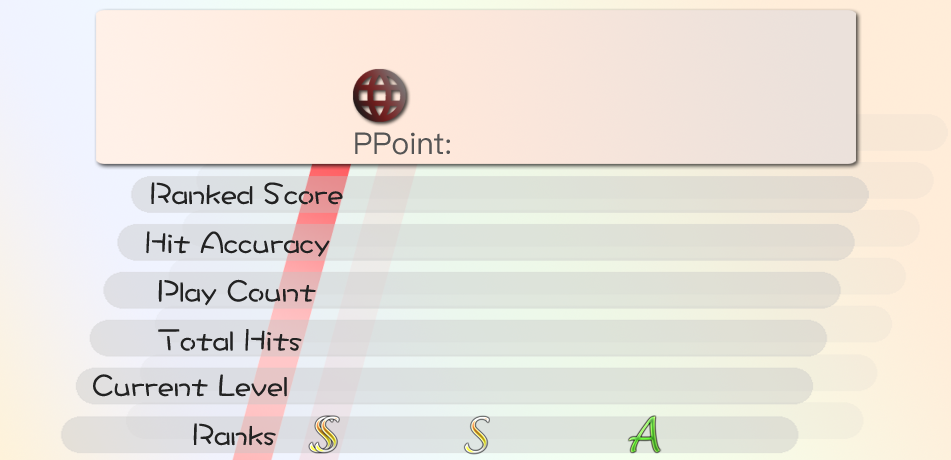
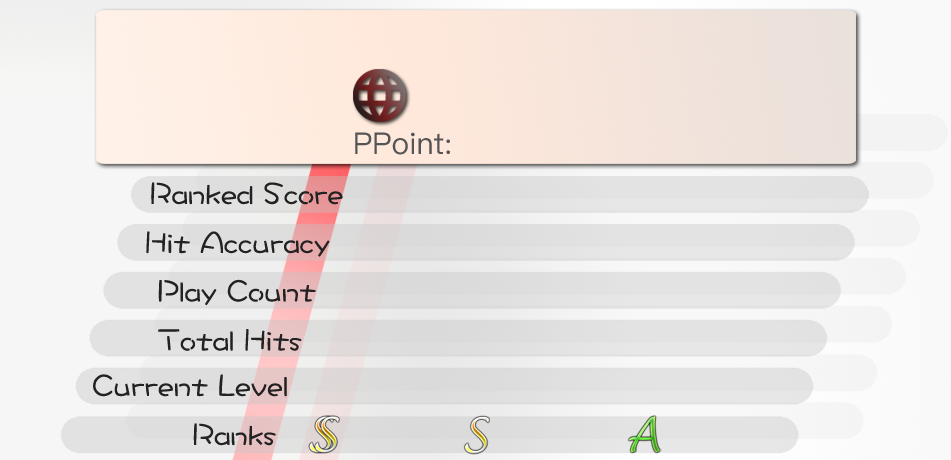
最后的微调，去掉了图片上多余的#，微调了Rank差异的位置

Changed region(s): [[0.5489, 0.0, 1.0, 1.0], [0.0, 0.913, 0.0305, 1.0]]

diff --git a/src/main/java/top/mothership/osubot/util/imgUtil.java b/src/main/java/top/mothership/osubot/util/imgUtil.java
@@ -176,12 +176,12 @@ public class imgUtil {
         draw(g2, "defaultColor", "numberFont", "rankSize", "#" + userFromAPI.getPp_rank(), "rankx", "ranky");
 
         //绘制PP
-        draw(g2, "ppColor", "numberFont", "ppSize", "#" + userFromAPI.getPp_raw().toString(), "ppx", "ppy");
+        draw(g2, "ppColor", "numberFont", "ppSize",  userFromAPI.getPp_raw().toString(), "ppx", "ppy");
 
 
         //绘制RankedScore
         draw(g2, "defaultColor", "numberFont", "numberSize",
-                "#" + new DecimalFormat("###,###").format(userFromAPI.getRanked_score()), "rScorex", "rScorey");
+                 new DecimalFormat("###,###").format(userFromAPI.getRanked_score()), "rScorex", "rScorey");
         //绘制acc
         draw(g2, "defaultColor", "numberFont", "numberSize",
                 new DecimalFormat("###.00").format(userFromAPI.getAccuracy()) + "%", "accx", "accy");
@@ -327,40 +327,40 @@ public class imgUtil {
             if (userInDB.getCount_rank_ss() > userFromAPI.getCount_rank_ss()) {
                 //如果查询的SS比凌晨的少
                 draw(g2, "downColor", "diffFont", "countDiffSize",
-                        "(↓" + Integer.toString(userInDB.getCount_rank_ss() - userFromAPI.getCount_rank_ss()) + ")", "ssCountDiffx", "ssCountDiffy");
+                        "↓" + Integer.toString(userInDB.getCount_rank_ss() - userFromAPI.getCount_rank_ss()) , "ssCountDiffx", "ssCountDiffy");
             } else if (userInDB.getCount_rank_ss() < userFromAPI.getCount_rank_ss()) {
                 //如果SS变多了
                 draw(g2, "upColor", "diffFont", "countDiffSize",
-                        "(↑" + Integer.toString(userFromAPI.getCount_rank_ss() - userInDB.getCount_rank_ss()) + ")", "ssCountDiffx", "ssCountDiffy");
+                        "↑" + Integer.toString(userFromAPI.getCount_rank_ss() - userInDB.getCount_rank_ss()) , "ssCountDiffx", "ssCountDiffy");
             } else {
                 draw(g2, "upColor", "diffFont", "countDiffSize",
-                        "(↑" + Integer.toString(0) + ")", "ssCountDiffx", "ssCountDiffy");
+                        "↑" + Integer.toString(0) , "ssCountDiffx", "ssCountDiffy");
             }
             //s
             if (userInDB.getCount_rank_s() > userFromAPI.getCount_rank_s()) {
                 //如果查询的S比凌晨的少
                 draw(g2, "downColor", "diffFont", "countDiffSize",
-                        "(↓" + Integer.toString(userInDB.getCount_rank_s() - userFromAPI.getCount_rank_s()) + ")", "sCountDiffx", "sCountDiffy");
+                        "↓" + Integer.toString(userInDB.getCount_rank_s() - userFromAPI.getCount_rank_s()) , "sCountDiffx", "sCountDiffy");
             } else if (userInDB.getCount_rank_s() < userFromAPI.getCount_rank_s()) {
                 //如果S变多了
                 draw(g2, "upColor", "diffFont", "countDiffSize",
-                        "(↑" + Integer.toString(userFromAPI.getCount_rank_s() - userInDB.getCount_rank_s()) + ")", "sCountDiffx", "sCountDiffy");
+                        "↑" + Integer.toString(userFromAPI.getCount_rank_s() - userInDB.getCount_rank_s()) , "sCountDiffx", "sCountDiffy");
             } else {
                 draw(g2, "upColor", "diffFont", "countDiffSize",
-                        "(↑" + Integer.toString(0) + ")", "sCountDiffx", "sCountDiffy");
+                        "↑" + Integer.toString(0) , "sCountDiffx", "sCountDiffy");
             }
             //a
             if (userInDB.getCount_rank_a() > userFromAPI.getCount_rank_a()) {
                 //如果查询的S比凌晨的少
                 draw(g2, "downColor", "diffFont", "countDiffSize",
-                        "(↓" + Integer.toString(userInDB.getCount_rank_a() - userFromAPI.getCount_rank_a()) + ")", "aCountDiffx", "aCountDiffy");
+                        "↓" + Integer.toString(userInDB.getCount_rank_a() - userFromAPI.getCount_rank_a()) , "aCountDiffx", "aCountDiffy");
             } else if (userInDB.getCount_rank_a() < userFromAPI.getCount_rank_a()) {
                 //如果S变多了
                 draw(g2, "upColor", "diffFont", "countDiffSize",
-                        "(↑" + Integer.toString(userFromAPI.getCount_rank_a() - userInDB.getCount_rank_a()) + ")", "aCountDiffx", "aCountDiffy");
+                        "↑" + Integer.toString(userFromAPI.getCount_rank_a() - userInDB.getCount_rank_a()) , "aCountDiffx", "aCountDiffy");
             } else {
                 draw(g2, "upColor", "diffFont", "countDiffSize",
-                        "(↑" + Integer.toString(0) + ")", "aCountDiffx", "aCountDiffy");
+                        "↑" + Integer.toString(0) , "aCountDiffx", "aCountDiffy");
             }
         }
         g2.dispose();
